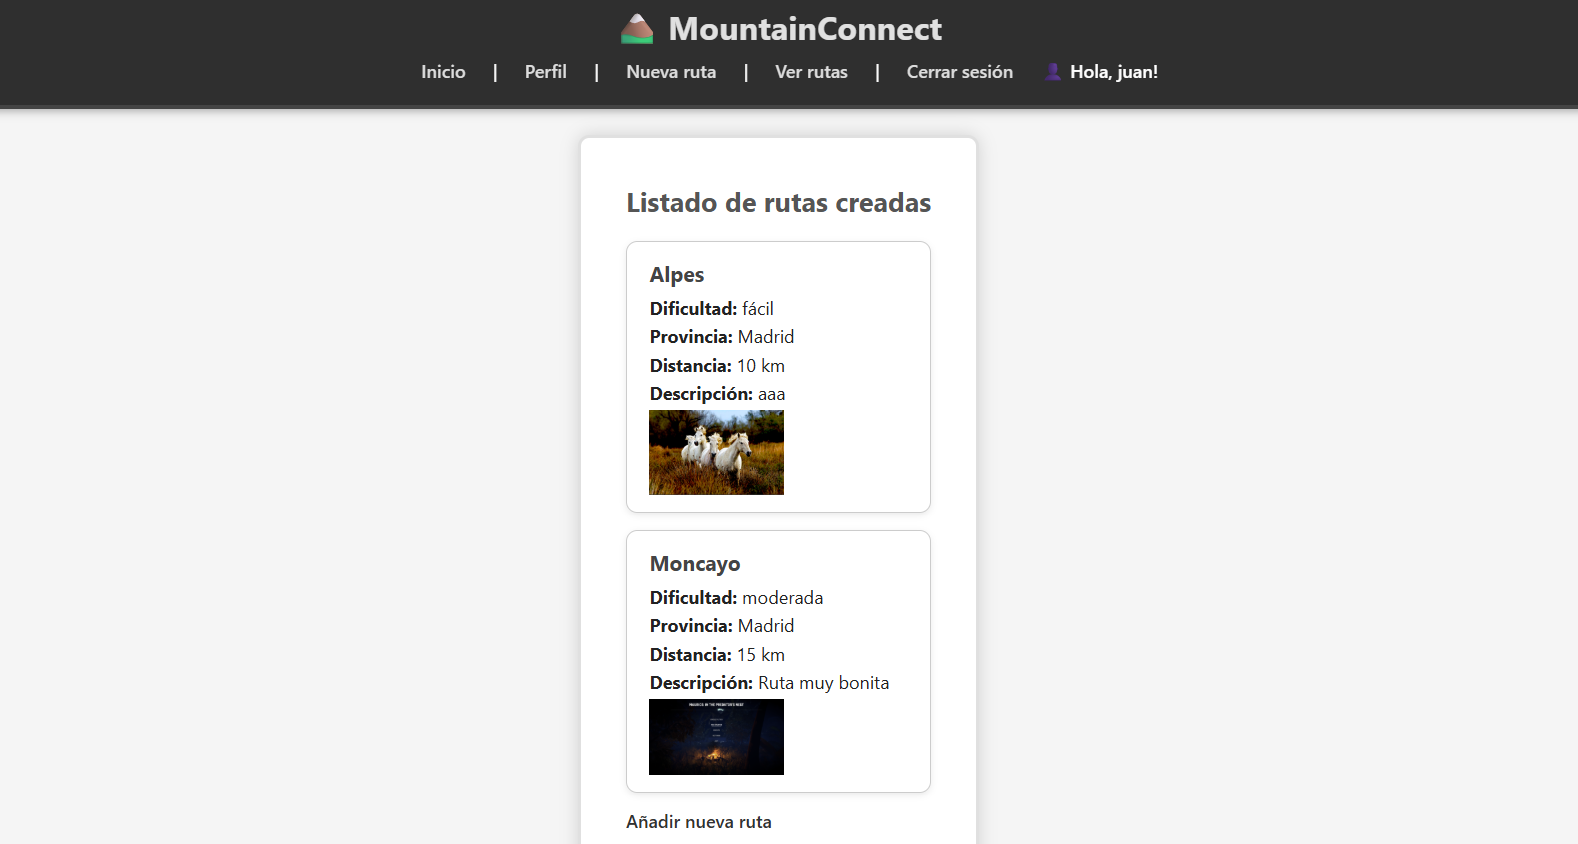
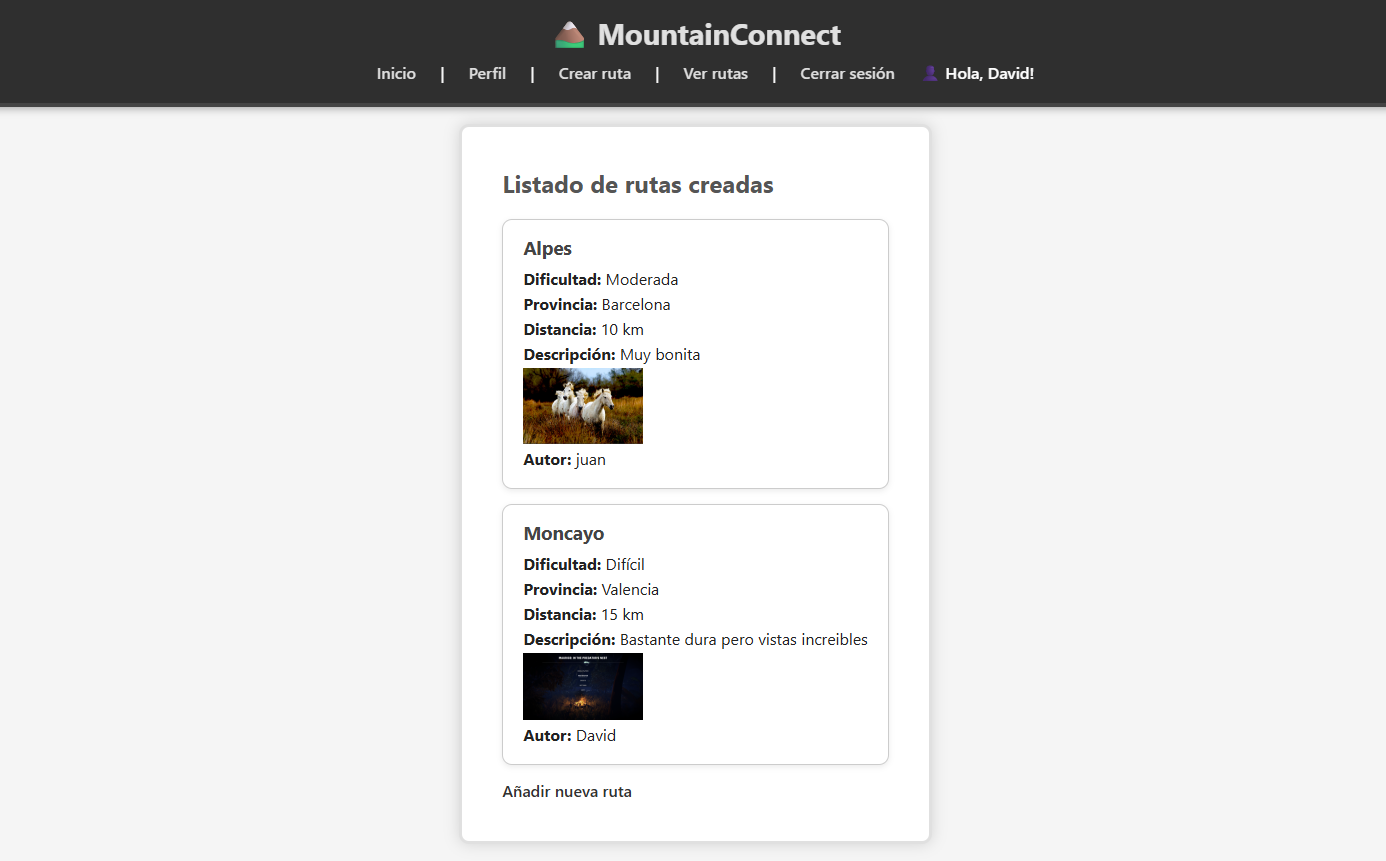
Mensaje claro sobre los cambios

diff --git a/assets/css/style.css b/assets/css/style.css
@@ -298,3 +298,16 @@ a.boton-enlace:hover {
   color: white;
   font-weight: 500;
 }
+
+/* =====================================
+   FOTO DE PERFIL
+   ===================================== */
+
+#foto-perfil {
+  width: 60px;
+  height: 60px;
+  border-radius: 50%;
+  object-fit: cover;
+  border: 3px solid #444;
+  margin-bottom: 5px;
+}

diff --git a/public/edit_profile.php b/public/edit_profile.php
@@ -1,0 +1,116 @@
+<?php
+include("../includes/auth_check.php");
+include("../config/config.php");
+include("../includes/functions.php");
+include("../includes/header.php");
+
+$usuarios = cargarUsuarios();
+$usuario = $_SESSION["usuario"];
+$errors = [];
+$success = "";
+
+if ($_SERVER["REQUEST_METHOD"] == "POST") {
+    $nuevo_username = trim($_POST["username"]);
+    $nuevo_email = trim($_POST["email"]);
+    $password_actual = $_POST["password_actual"];
+    $password_nueva = $_POST["password_nueva"];
+
+    // Validaciones básicas
+    if (empty($nuevo_username)) $errors[] = "El nombre de usuario no puede estar vacío.";
+    if (!filter_var($nuevo_email, FILTER_VALIDATE_EMAIL)) $errors[] = "El email no es válido.";
+
+    // Contraseña actual obligatoria para editar
+    if (!password_verify($password_actual, $usuario["password"])) {
+        $errors[] = "La contraseña actual es incorrecta.";
+    }
+
+    // --- PROCESAR FOTO DE PERFIL ---
+    $nueva_foto = $usuario["foto"] ?? ""; // por defecto mantiene la foto anterior
+
+    if (isset($_FILES["foto"]) && !empty($_FILES["foto"]["name"])) {
+
+        $permitidos = ["image/jpeg", "image/png", "image/jpg", "image/webp"];
+        $tipo = $_FILES["foto"]["type"];
+        $tamano = $_FILES["foto"]["size"];
+        $nombre_archivo = basename($_FILES["foto"]["name"]);
+
+        if (!in_array($tipo, $permitidos)) {
+            $errors[] = "La foto debe ser JPG o PNG.";
+        } elseif ($tamano > 3 * 1024 * 1024) {
+            $errors[] = "La foto excede los 3MB.";
+        } else {
+
+            $nombre_unico = time() . "_" . $nombre_archivo;
+            $ruta_destino = "../uploads/profile/" . $nombre_unico;
+
+            if (move_uploaded_file($_FILES["foto"]["tmp_name"], $ruta_destino)) {
+                $nueva_foto = $ruta_destino;
+            } else {
+                $errors[] = "No se pudo subir la nueva foto de perfil.";
+            }
+        }
+    }
+
+    // --- SI NO HAY ERRORES, ACTUALIZAR ---
+    if (empty($errors)) {
+        foreach ($usuarios as &$u) {
+            if ($u["username"] === $usuario["username"]) {
+                $u["username"] = $nuevo_username;
+                $u["email"] = $nuevo_email;
+                $u["foto"] = $nueva_foto;
+
+                if (!empty($password_nueva)) {
+                    $u["password"] = password_hash($password_nueva, PASSWORD_DEFAULT);
+                }
+
+                // Actualizar sesión
+                $_SESSION["usuario"] = $u;
+            }
+        }
+
+        guardarUsuarios($usuarios);
+        $success = "Perfil actualizado correctamente ✔";
+    }
+}
+?>
+<main id="contenido-principal">
+    <h2>Editar perfil</h2>
+
+    <?php if (!empty($errors)): ?>
+        <div style="color:red;">
+            <ul>
+                <?php foreach ($errors as $e): ?><li><?= $e ?></li><?php endforeach; ?>
+            </ul>
+        </div>
+    <?php endif; ?>
+
+    <?php if ($success): ?>
+        <div style="color:green;"><?= $success ?></div>
+    <?php endif; ?>
+
+     <!-- Mostrar foto actual -->
+    <?php 
+        $foto = $usuario["foto"] ?? "";
+        $foto_mostrar = !empty($foto) ? $foto : "/mountain-connect/assets/img/avatar.png";
+    ?>
+    <img src="<?= $foto_mostrar ?>" id="foto-perfil">
+
+    <form method="post" enctype="multipart/form-data">
+        <label>Cambiar foto de perfil:</label><br>
+        <input type="file" name="foto"><br><br>
+
+        <label>Nuevo nombre de usuario:</label><br>
+        <input type="text" name="username" value="<?= $usuario['username'] ?>"><br><br>
+
+        <label>Nuevo email:</label><br>
+        <input type="email" name="email" value="<?= $usuario['email'] ?>"><br><br>
+
+        <label>Contraseña actual (obligatoria):</label><br>
+        <input type="password" name="password_actual"><br><br>
+
+        <label>Nueva contraseña (opcional):</label><br>
+        <input type="password" name="password_nueva"><br><br>
+
+        <input type="submit" value="Guardar cambios">
+    </form>
+</main>

diff --git a/public/register.php b/public/register.php
@@ -29,12 +29,39 @@ if ($_SERVER["REQUEST_METHOD"] == "POST") {
         if ($u["email"] === $email) $errors[] = "El email ya está registrado.";
     }
 
+    // --- SUBIR FOTO DE PERFIL (opcional) ---
+    $foto_perfil = "";
+
+    if (!empty($_FILES["foto"]["name"])) {
+
+        $permitidos = ["image/jpeg", "image/png", "image/jpg"];
+        $tipo = $_FILES["foto"]["type"];
+        $tamano = $_FILES["foto"]["size"];
+        $nombre_archivo = basename($_FILES["foto"]["name"]);
+
+        if (!in_array($tipo, $permitidos)) {
+            $errors[] = "La foto debe ser JPG o PNG.";
+        } elseif ($tamano > 3 * 1024 * 1024) {
+            $errors[] = "La foto no puede superar los 3MB.";
+        } else {
+            $nombre_unico = time() . "_" . $nombre_archivo;
+            $ruta_destino = "../uploads/profile/" . $nombre_unico;
+
+            if (move_uploaded_file($_FILES["foto"]["tmp_name"], $ruta_destino)) {
+                $foto_perfil = $ruta_destino;
+            } else {
+                $errors[] = "Error al subir la foto de perfil.";
+            }
+        }
+    }
+
     // Si todo está correcto, guardamos
     if (empty($errors)) {
         $nuevo_usuario = [
             "username" => $username,
             "email" => $email,
-            "password" => $password // ⚠ En proyectos reales deberías usar password_hash()
+            "password" => password_hash($password, PASSWORD_DEFAULT),
+            "foto" => $foto_perfil
         ];
 
         $usuarios[] = $nuevo_usuario;
@@ -62,6 +89,9 @@ if ($_SERVER["REQUEST_METHOD"] == "POST") {
 <?php endif; ?>
 
 <form method="post" id="form-registro">
+    <label>Foto de perfil (opcional):</label><br>
+    <input type="file" name="foto"><br><br>
+
     <label>Nombre de usuario:</label><br>
     <input type="text" name="username" value="<?php echo $_POST['username'] ?? ''; ?>"><br><br>
 

diff --git a/public/routes/my_routes.php b/public/routes/my_routes.php
@@ -1,0 +1,44 @@
+<?php
+include("../../includes/auth_check.php");
+include("../../config/config.php");
+include("../../includes/functions.php");
+include("../../includes/header.php");
+
+$rutas = cargarRutas();
+$usuario = $_SESSION["usuario"];
+$mis_rutas = [];
+
+foreach ($rutas as $r) {
+    if ($r["creador"] === $usuario["username"]) {
+        $mis_rutas[] = $r;
+    }
+}
+?>
+<main id="contenido-principal">
+    <h2>Mis actividades creadas</h2>
+
+    <?php if (empty($mis_rutas)): ?>
+        <p>No has creado ninguna actividad todavía.</p>
+    <?php else: ?>
+        <?php foreach ($mis_rutas as $ruta): ?>
+            <div class="card-ruta">
+                <h3><?= htmlspecialchars($ruta["nombre"]) ?></h3>
+                <p><strong>Dificultad:</strong> <?php echo htmlspecialchars($ruta["dificultad"]); ?></p>
+                <p><strong>Provincia:</strong> <?php echo htmlspecialchars($ruta["provincia"]); ?></p>
+                <p><strong>Distancia:</strong> <?php echo htmlspecialchars($ruta["distancia"]); ?> km</p>
+                <p><strong>Descripción:</strong> <?php echo htmlspecialchars($ruta["descripcion"]); ?></p>
+                <p><strong>Autor:</strong> <?php echo htmlspecialchars($ruta["creador"]); ?></p>
+                
+                <?php if (!empty($ruta["fotos"])): ?>
+                    <div style="display:flex; gap:10px;">
+                        <?php foreach ($ruta["fotos"] as $foto): ?>
+                            <img src="<?php echo $foto; ?>" alt="Foto ruta" width="120">
+                        <?php endforeach; ?>
+                    </div>
+                <?php endif; ?>
+            </div>
+        <?php endforeach; ?>
+    <?php endif; ?>
+</main>
+
+<?php include("../../includes/footer.php"); ?>

diff --git a/public/routes/create.php b/public/routes/create.php
@@ -64,7 +64,8 @@ if ($_SERVER["REQUEST_METHOD"] == "POST") {
             "descripcion" => $descripcion,
             "nivel_tecnico" => $nivel_tecnico,
             "nivel_fisico" => $nivel_fisico,
-            "fotos" => $fotos_subidas
+            "fotos" => $fotos_subidas,
+            "creador" => $_SESSION["usuario"]["username"] 
         ];
 
         // Añadimos la nueva ruta al listado y guardamos
@@ -100,10 +101,10 @@ if ($_SERVER["REQUEST_METHOD"] == "POST") {
         <label>Dificultad:</label><br>
         <select name="dificultad">
             <option value="">-- Selecciona --</option>
-            <option value="fácil">Fácil</option>
-            <option value="moderada">Moderada</option>
-            <option value="difícil">Difícil</option>
-            <option value="muy difícil">Muy difícil</option>
+            <option value="Fácil">Fácil</option>
+            <option value="Moderada">Moderada</option>
+            <option value="Difícil">Difícil</option>
+            <option value="Muy difícil">Muy difícil</option>
         </select><br><br>
 
         <label>Distancia (km):</label><br>

diff --git a/public/profile.php b/public/profile.php
@@ -8,11 +8,18 @@ $usuario = $_SESSION["usuario"];
 ?>
 
 <main id="contenido-principal">
+    <?php
+    $foto = $usuario["foto"] ?? "";
+    $foto_perfil = !empty($foto) ? $foto : "/mountain-connect/assets/img/avatar.png";
+    ?>
+    <img src="<?= $foto_perfil ?>" id="foto-perfil">
     <h2>Perfil de <?php echo htmlspecialchars($usuario["username"]); ?></h2>
     <p>Bienvenido a tu perfil, <?php echo htmlspecialchars($usuario["username"]); ?> 👋</p>
     <p><strong>Email:</strong> <?php echo htmlspecialchars($usuario["email"]); ?></p>
-    <br><br><br>
-
+    <br><br>
+    <p><a href="edit_profile.php">Editar perfil</a></p>
+    <p><a href="/mountain-connect/public/routes/my_routes.php">Ver mis actividades</a></p>
+    <br>
     <p id="profile" class="profile-logout">
         <a href="/mountain-connect/public/logout.php">Cerrar sesión</a>
     </p>

diff --git a/includes/header.php b/includes/header.php
@@ -20,7 +20,7 @@ if (session_status() === PHP_SESSION_NONE) {
             <?php if (isset($_SESSION["usuario"])): ?>
                 <!-- Si el usuario está logueado -->
                 <a href="/mountain-connect/public/profile.php">Perfil</a> |
-                <a href="/mountain-connect/public/routes/create.php">Nueva ruta</a> |
+                <a href="/mountain-connect/public/routes/create.php">Crear ruta</a> |
                 <a href="/mountain-connect/public/routes/list.php">Ver rutas</a> |
                 <a href="/mountain-connect/public/logout.php">Cerrar sesión</a>
                 <span id="nombre-header">👤 Hola, <?php echo htmlspecialchars($_SESSION["usuario"]["username"]); ?>!</span>

diff --git a/public/login.php b/public/login.php
@@ -13,11 +13,16 @@ if ($_SERVER["REQUEST_METHOD"] == "POST") {
 
     $usuario_encontrado = null;
     foreach ($usuarios as $u) {
-        if (($u["username"] === $login || $u["email"] === $login) && $u["password"] === $password) {
+    // Comprobar usuario o email
+    if ($u["username"] === $login || $u["email"] === $login) {
+        
+        // Comprobar contraseña cifrada
+        if (password_verify($password, $u["password"])) {
             $usuario_encontrado = $u;
             break;
         }
     }
+}
 
     if ($usuario_encontrado) {
         $_SESSION["usuario"] = $usuario_encontrado;

diff --git a/public/routes/list.php b/public/routes/list.php
@@ -27,6 +27,8 @@ $rutas = cargarRutas();
                     <?php endforeach; ?>
                 </div>
             <?php endif; ?>
+            
+            <p><strong>Autor:</strong> <?php echo htmlspecialchars($ruta["creador"]); ?></p>
         </div>
     <?php endforeach; ?>
 <?php endif; ?>

diff --git a/README.md b/README.md
@@ -141,8 +141,17 @@ Registro de usuario
 Inicio de Sesión
 ![Iniciar Sesion](README/iniciar-sesion.png)
 
+Página Principal Sesión Iniciada
+![Página Principal Sesión Iniciada](README/pagina-principal-sesion-iniciada.png)
+
 Perfil de usuario
 ![Perfil](README/perfil.png)
+
+Editar perfil
+![Perfil](README/editar-perfil.png)
+
+Mis Actividades
+![Perfil](README/mis-actividades.png)
 
 Crear rutas
 ![Crear Ruta](README/crear-ruta.png)
